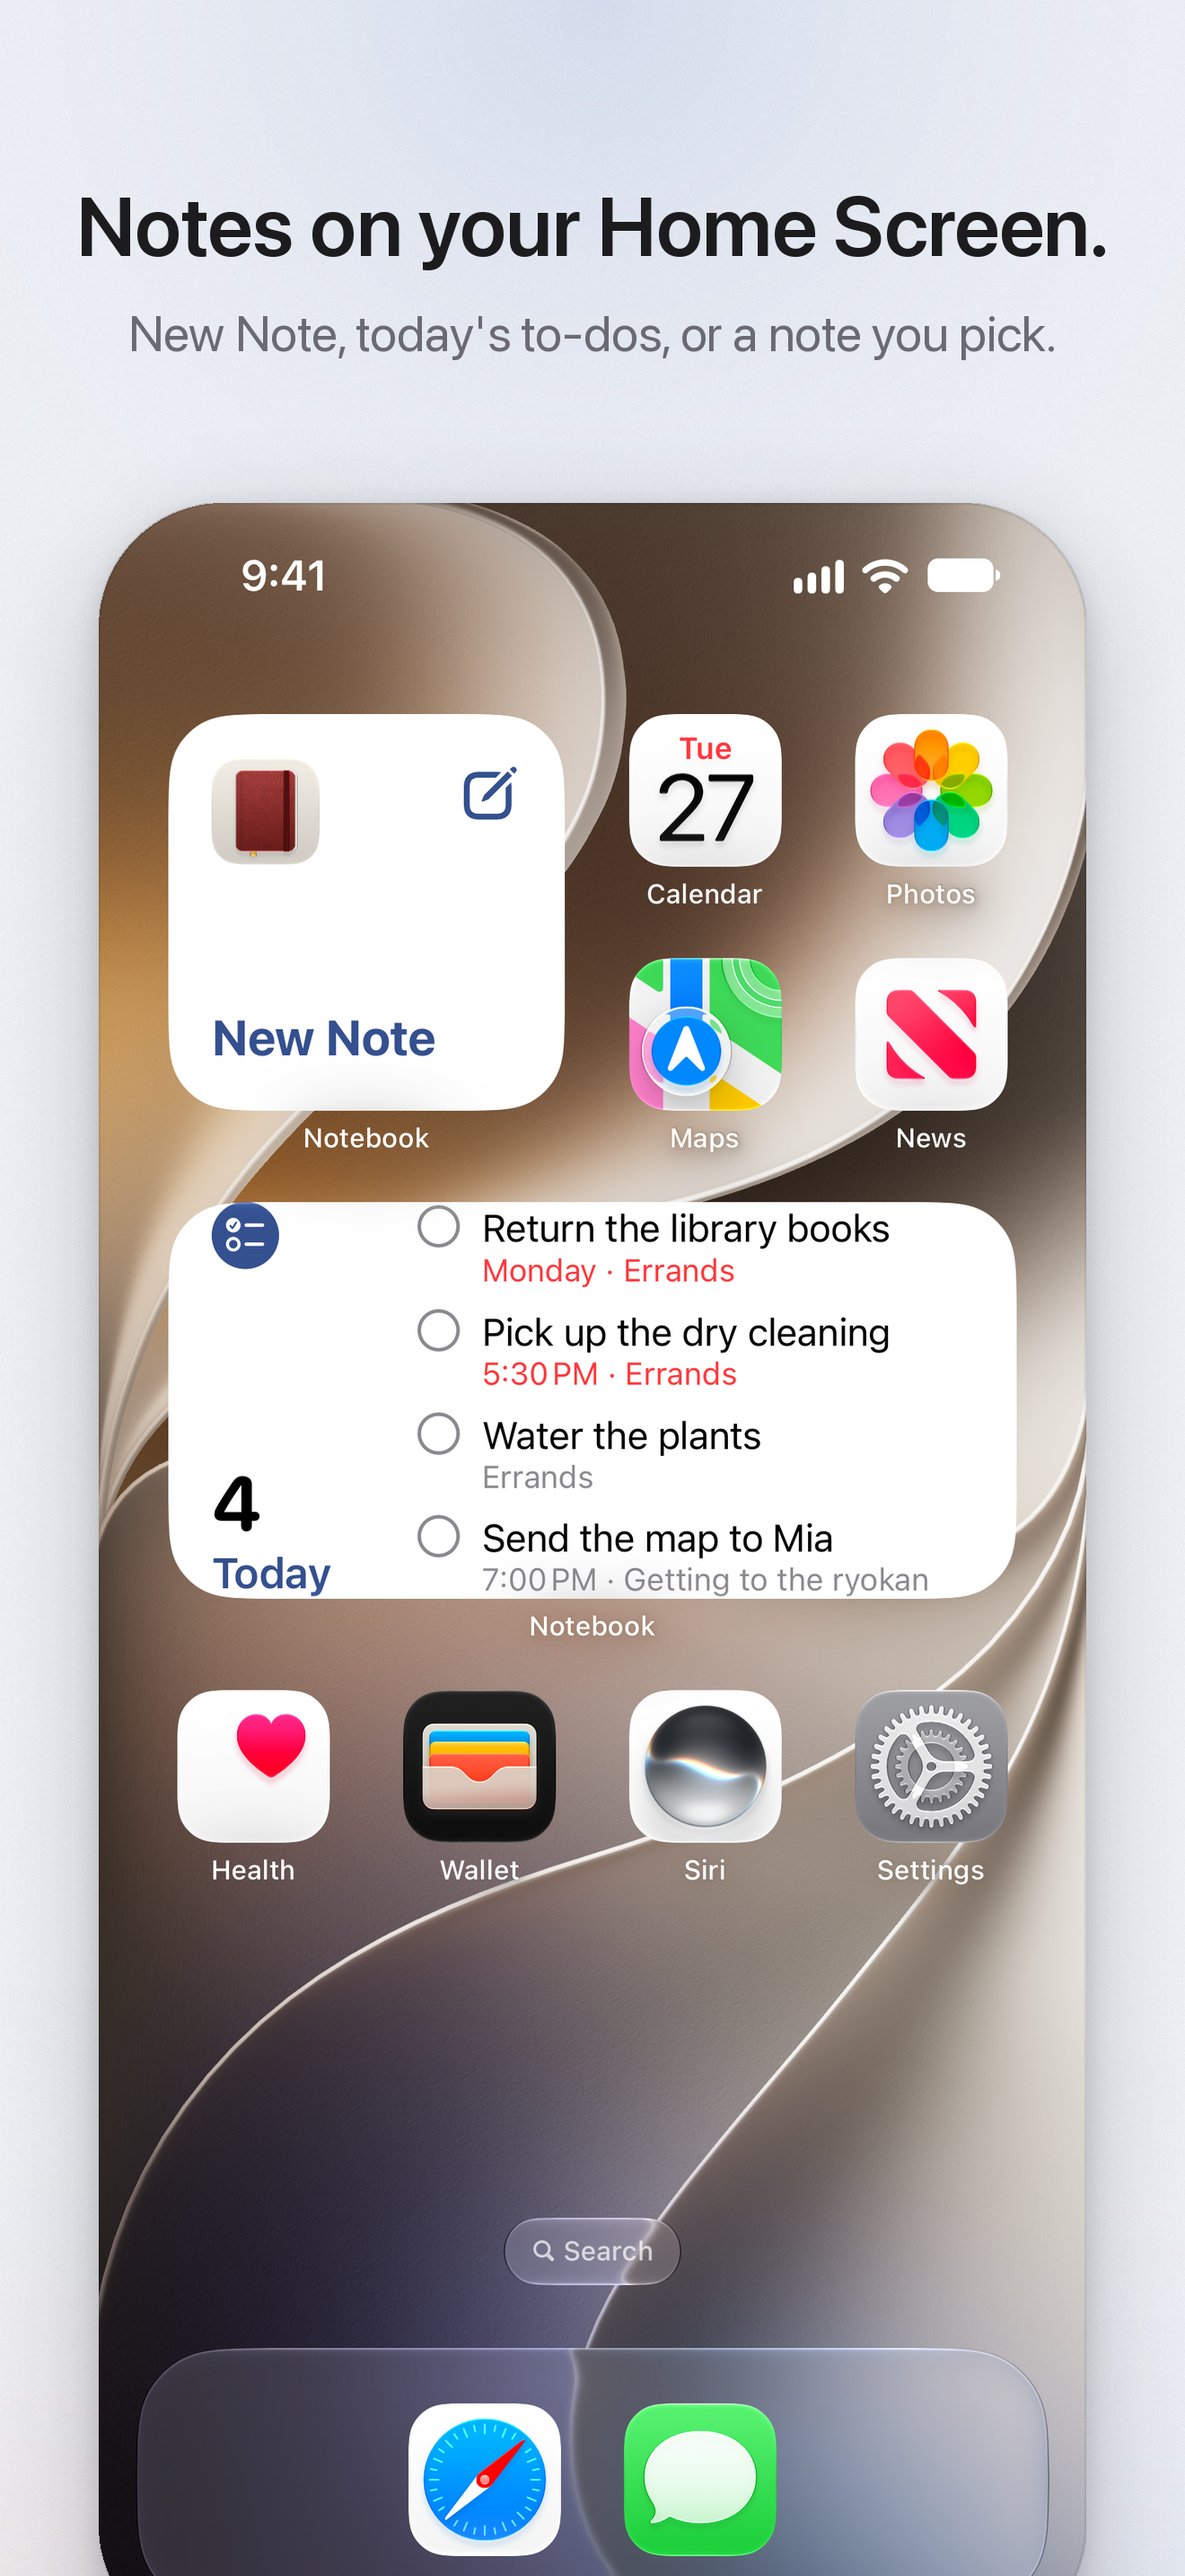
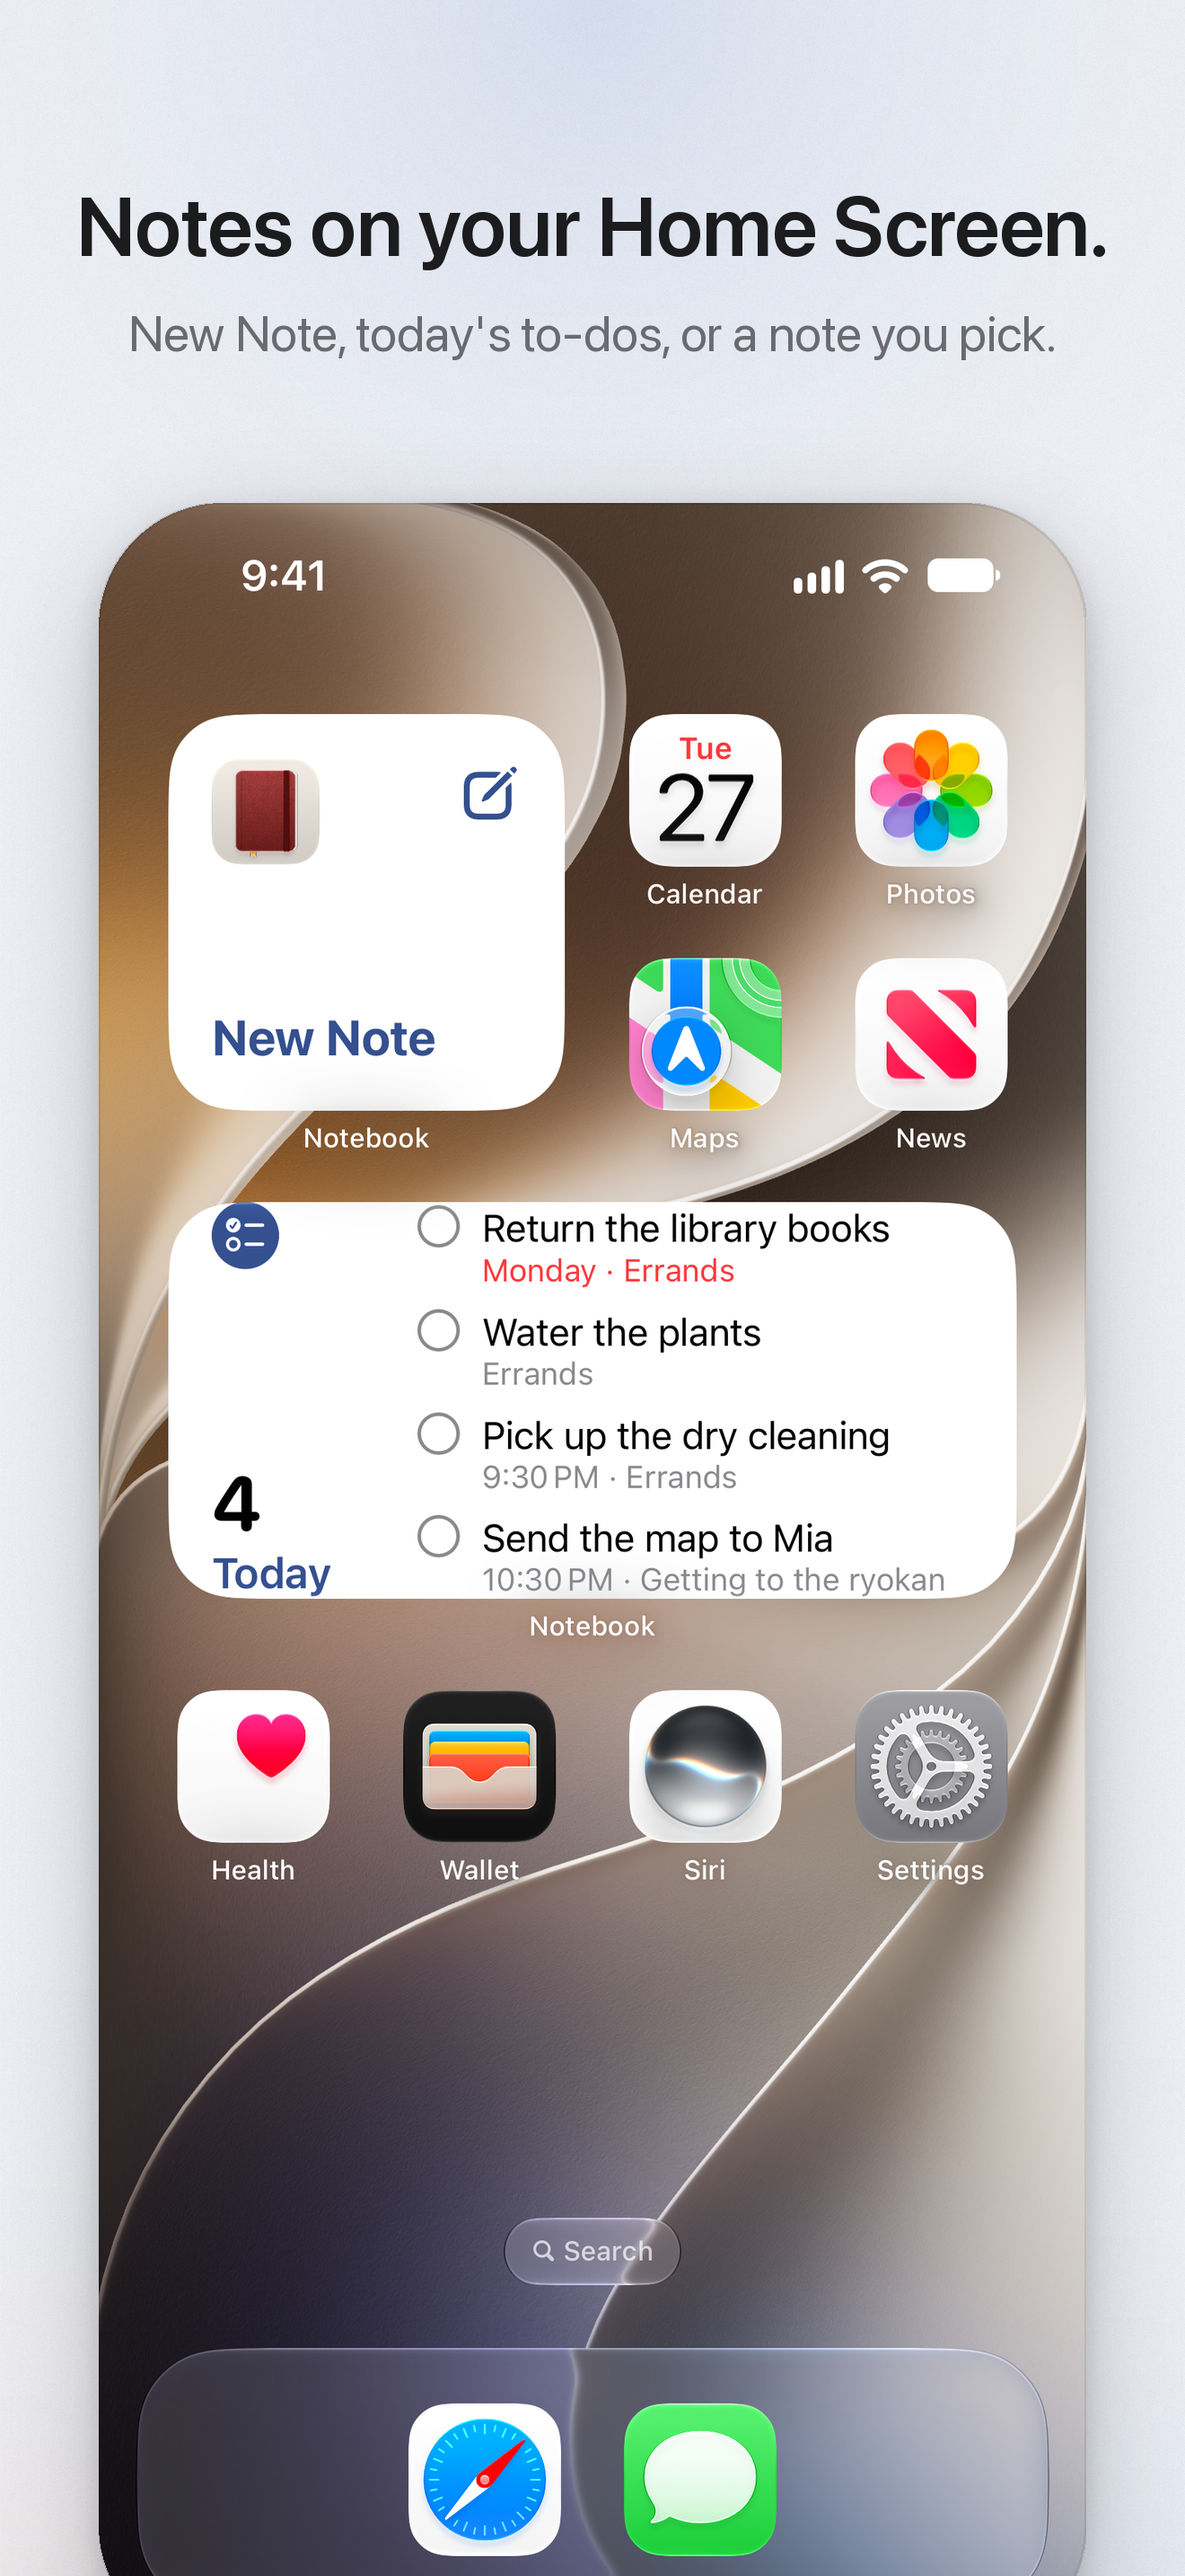
Sample notes: today's to-dos are due later today whenever the samples are made (#230)
Pick up the dry cleaning and Send the map to Mia were due at 5:30 and 7:00 PM, so pictures taken in the evening showed
them as overdue, in red. They are now due two and three hours after the samples are made, at the next half hour and
before midnight, and the dry cleaning's note no longer says the shop closes at 6. The To-dos and widget slots on iPhone
and iPad are retaken; Tools/app-store-screenshots.sh takes single slots when named. The README's descriptions of its
to-do pictures no longer name the times.

Changed region(s): [[0.4038, 0.4965, 0.7455, 0.6206], [0.7144, 0.5896, 0.7765, 0.6206]]

diff --git a/Packages/NotebookKit/Sources/NotebookKit/Files/DemoLibrary.swift b/Packages/NotebookKit/Sources/NotebookKit/Files/DemoLibrary.swift
@@ -33,6 +33,17 @@ enum DemoLibrary {
         return TodoDue(date, time: hour != nil).markdown
     }
 
+    /// A time later today, at the next half hour `hours` from now but no later than `latest` (hour, minute): the to-dos
+    /// due today stay under Today whenever the samples are made, also in the evening, rather than turning overdue at a
+    /// fixed hour.
+    private static func later(by hours: Int, latest: (Int, Int), now: Date = .now) -> String {
+        let calendar = Calendar.current
+        let minutes = calendar.component(.hour, from: now) * 60 + calendar.component(.minute, from: now) + hours * 60
+        let at = min((minutes + 29) / 30 * 30, latest.0 * 60 + latest.1)
+        let date = calendar.date(bySettingHour: at / 60, minute: at % 60, second: 0, of: now) ?? now
+        return TodoDue(date, time: true).markdown
+    }
+
     static let pharmacy = TodoPlace(name: "Pharmacy at Rosenthaler Platz", latitude: 52.529_6, longitude: 13.401_3)
 
     /// Earlier versions of the Kyoto trip, written on a Mac and an iPhone over the last two weeks, to show version
@@ -166,9 +177,9 @@ enum DemoLibrary {
         Small things for this week, each with when (or where) it should come up.
 
         - [ ] Return the library books \(due(-1))
-        - [ ] Pick up the dry cleaning \(due(0, 17, 30))
+        - [ ] Pick up the dry cleaning \(later(by: 2, latest: (23, 0)))
             - The ticket is in the blue jacket
-            - Closes at 6
+            - Two shirts and the grey coat
         - [ ] Buy plasters \(pharmacy.markdown)
         - [/] Renew the passport \(due(24))
             - [x] Two photos from the booth at the station
@@ -217,7 +228,7 @@ enum DemoLibrary {
 
         ![Drawing](.assets/Getting%20to%20the%20ryokan%20drawing.png)
 
-        - [ ] Send the map to Mia \(due(0, 19))
+        - [ ] Send the map to Mia \(later(by: 3, latest: (23, 30)))
         - [x] Ask about a late check-in
 
         """)

diff --git a/README.md b/README.md
@@ -259,17 +259,17 @@ in To-dos to mark it in progress or cancelled.
 
 <picture>
   <source media="(prefers-color-scheme: dark)" srcset="Design/screenshots/todos-dark.webp">
-  <img alt="To-dos selected at the top of the sidebar, with 4 next to it. The list shows Overdue with Return the library books from yesterday in red; Today with Water the plants, every week, Pick up the dry cleaning at 5:30 PM, its two notes under it, and Send the map to Mia at 7:00 PM; Tomorrow with Book a table for Saturday, in no note, the note Questions for Dr. Weber and Market shopping, with its sub-to-dos Tomatoes and basil, Burrata and Bags, ticked, under it; then Next 7 Days and Later. Each row has a circle to tick it and the note it is in, and each group but Overdue ends with New To-do" src="Design/screenshots/todos-light.webp">
+  <img alt="To-dos selected at the top of the sidebar, with 4 next to it. The list shows Overdue with Return the library books from yesterday in red; Today with Water the plants, every week, Pick up the dry cleaning at a time later in the day, its two notes under it, and Send the map to Mia later still; Tomorrow with Book a table for Saturday, in no note, the note Questions for Dr. Weber and Market shopping, with its sub-to-dos Tomatoes and basil, Burrata and Bags, ticked, under it; then Next 7 Days and Later. Each row has a circle to tick it and the note it is in, and each group but Overdue ends with New To-do" src="Design/screenshots/todos-light.webp">
 </picture>
 
 <picture>
   <source media="(prefers-color-scheme: dark)" srcset="Design/screenshots/todo-editing-dark.webp">
-  <img alt="Pick up the dry cleaning being edited in To-dos: a Notes line in small grey letters under its words, its two points, and below them capsules: Today and 5:30 PM in blue, each with an ×, and grey symbols for a place and a sub-to-do, with the note Errands at the end of the row. Under Today a glass dropdown is open with “thursday in 3 weeks” typed in its field and Thursday in 3 Weeks lit under it, with its date" src="Design/screenshots/todo-editing-light.webp">
+  <img alt="Pick up the dry cleaning being edited in To-dos: a Notes line in small grey letters under its words, its two points, and below them capsules: Today and its time in blue, each with an ×, and grey symbols for a place and a sub-to-do, with the note Errands at the end of the row. Under Today a glass dropdown is open with “thursday in 3 weeks” typed in its field and Thursday in 3 Weeks lit under it, with its date" src="Design/screenshots/todo-editing-light.webp">
 </picture>
 
 <picture>
   <source media="(prefers-color-scheme: dark)" srcset="Design/screenshots/todo-reminder-dark.webp">
-  <img alt="The note Errands, its to-dos followed by pills: Yesterday in red, Today 5:30 PM, the pharmacy at Rosenthaler Platz and a day next month on Renew the passport, which is half done, with a sub-to-do ticked and one not under it; every week and Today on Water the plants; Sell the old bike is cancelled, grey and struck through. Remind Me is open for Buy plasters, with Date and Time off and Location on: the pharmacy on a map with the circle around it, and Arriving or Leaving" src="Design/screenshots/todo-reminder-light.webp">
+  <img alt="The note Errands, its to-dos followed by pills: Yesterday in red, Today with a time, the pharmacy at Rosenthaler Platz and a day next month on Renew the passport, which is half done, with a sub-to-do ticked and one not under it; every week and Today on Water the plants; Sell the old bike is cancelled, grey and struck through. Remind Me is open for Buy plasters, with Date and Time off and Location on: the pharmacy on a map with the circle around it, and Arriving or Leaving" src="Design/screenshots/todo-reminder-light.webp">
 </picture>
 
 ### Remind me of a note
